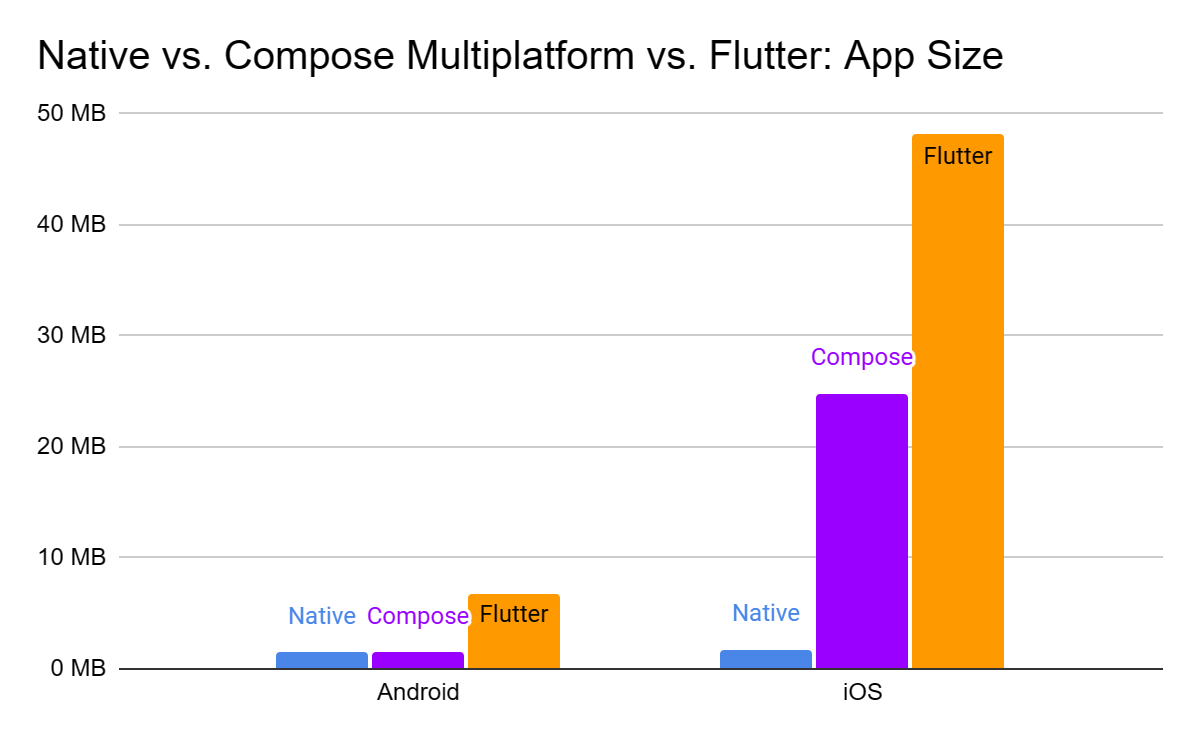
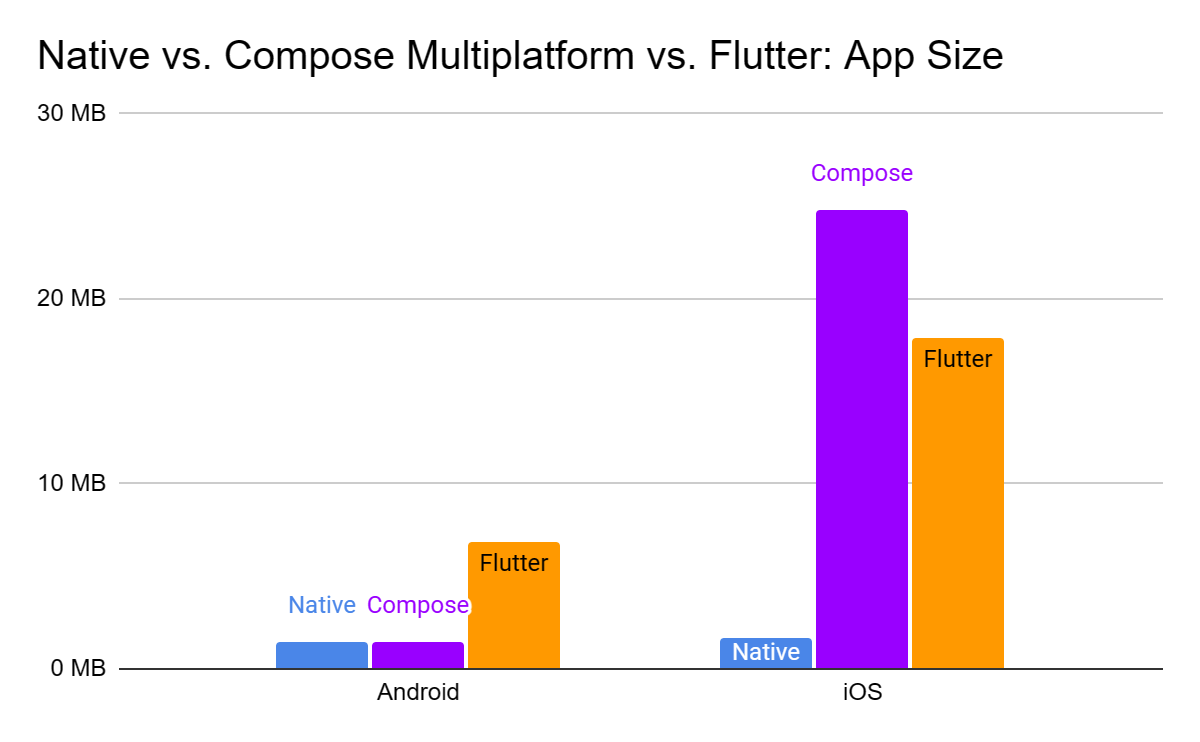
Update app size measurements

diff --git a/README.md b/README.md
@@ -27,11 +27,11 @@ Release builds are available in `/builds`.
 Android sizes were measured by running Bundletool* on the signed, minified release bundles to create an APK set for a
 Pixel 4a, and then running `get-size` on that APK set. iOS sizes were measured running the App Thinning Size report.
 
-| Technology                   | Android  | iOS     | Remarks                                                      |
-|------------------------------|----------|---------|--------------------------------------------------------------|
-| **Native** (Compose/SwiftUI) | 1.463 MB | 1.7 MB  |                                                              |
-| **KMP** (Compose)            | 1.463 MB | 24.8 MB | Includes Skia on iOS, where Android relies on built-in Skia. |
-| **Flutter**                  | 6.828 MB | 48.1 MB | Also includes Skia on iOS + Flutter framework.               |
+| Technology                   | Android  | iOS                              | Remarks                                                      |
+|------------------------------|----------|----------------------------------|--------------------------------------------------------------|
+| **Native** (Compose/SwiftUI) | 1.463 MB | 1.7 MB                           |                                                              |
+| **KMP** (Compose)            | 1.463 MB | 24.8 MB (v1.4)<br>32.2 MB (v1.5) | Includes Skia on iOS, where Android relies on built-in Skia. |
+| **Flutter**                  | 6.828 MB | 17.9 MB                          | Also includes Skia on iOS + Flutter framework.               |
 
 Note: due to https://github.com/Kamel-Media/Kamel/issues/47 the Kamel library isn't being minified. Once that's fixed,
 the Android native and Android KMP builds will both be smaller.
